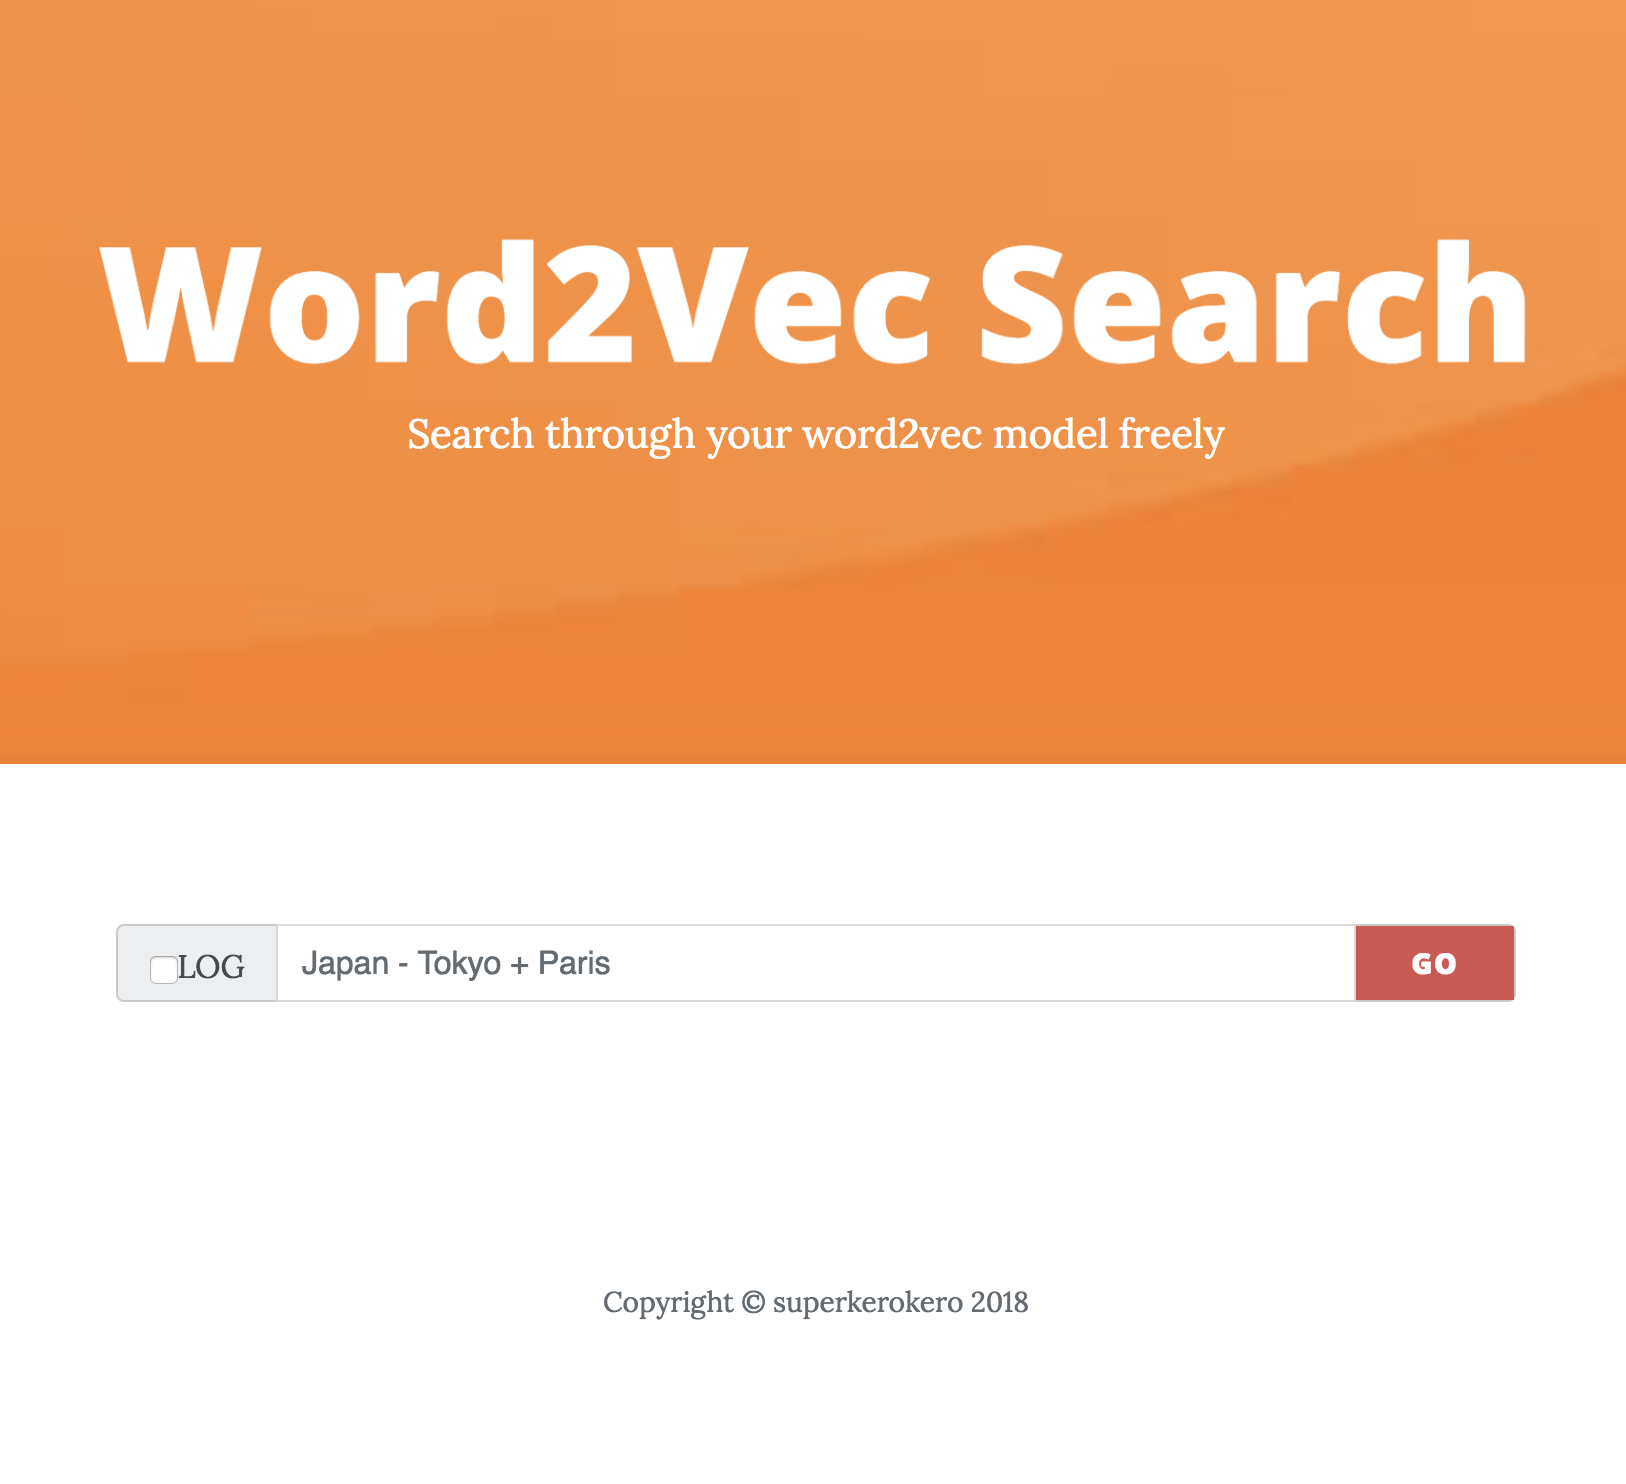
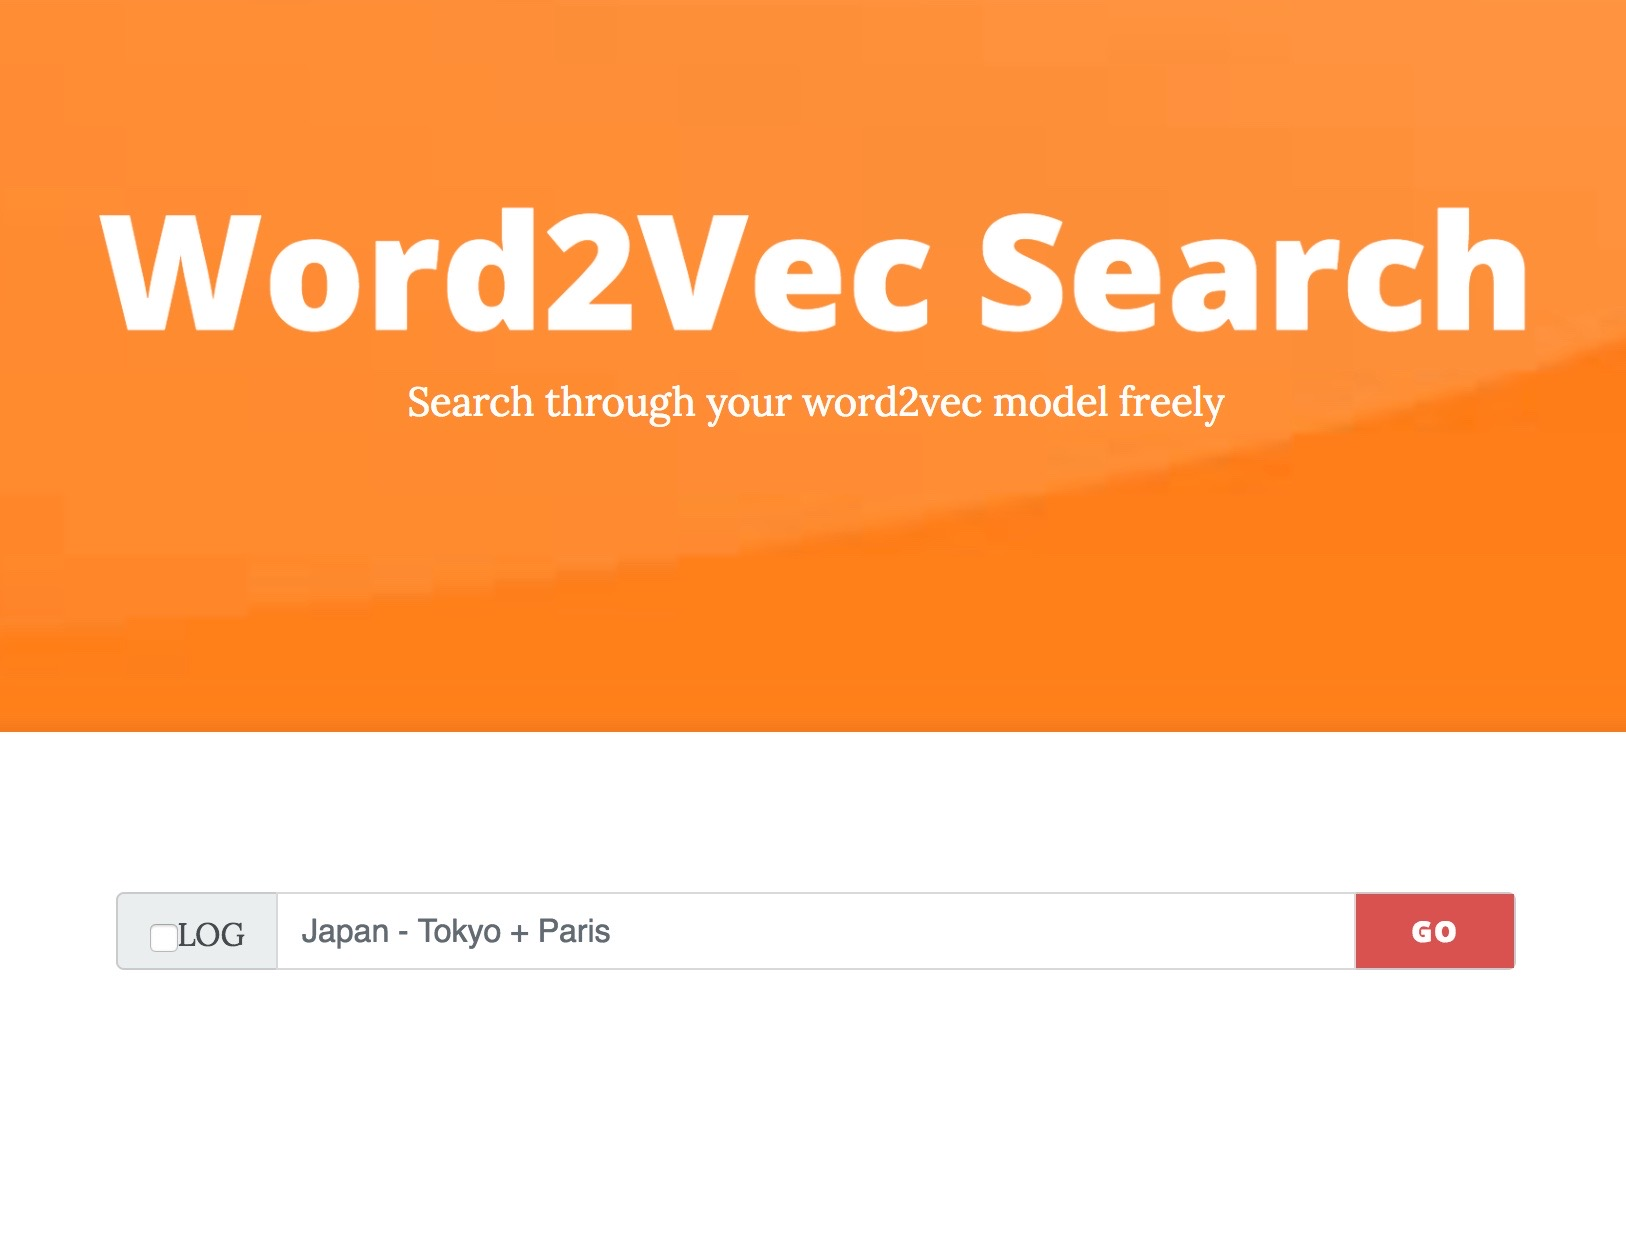
Removed copyright information from the html template.

diff --git a/templates/index.html b/templates/index.html
@@ -105,7 +105,7 @@
         <div class="container">
             <div class="row">
                 <div class="col-lg-8 offset-lg-2 col-md-10 offset-md-1">
-                    <p class="copyright text-muted">Copyright &copy; superkerokero 2018</p>
+                    <p class="copyright text-muted">Made by superkerokero</p>
                 </div>
             </div>
         </div>
